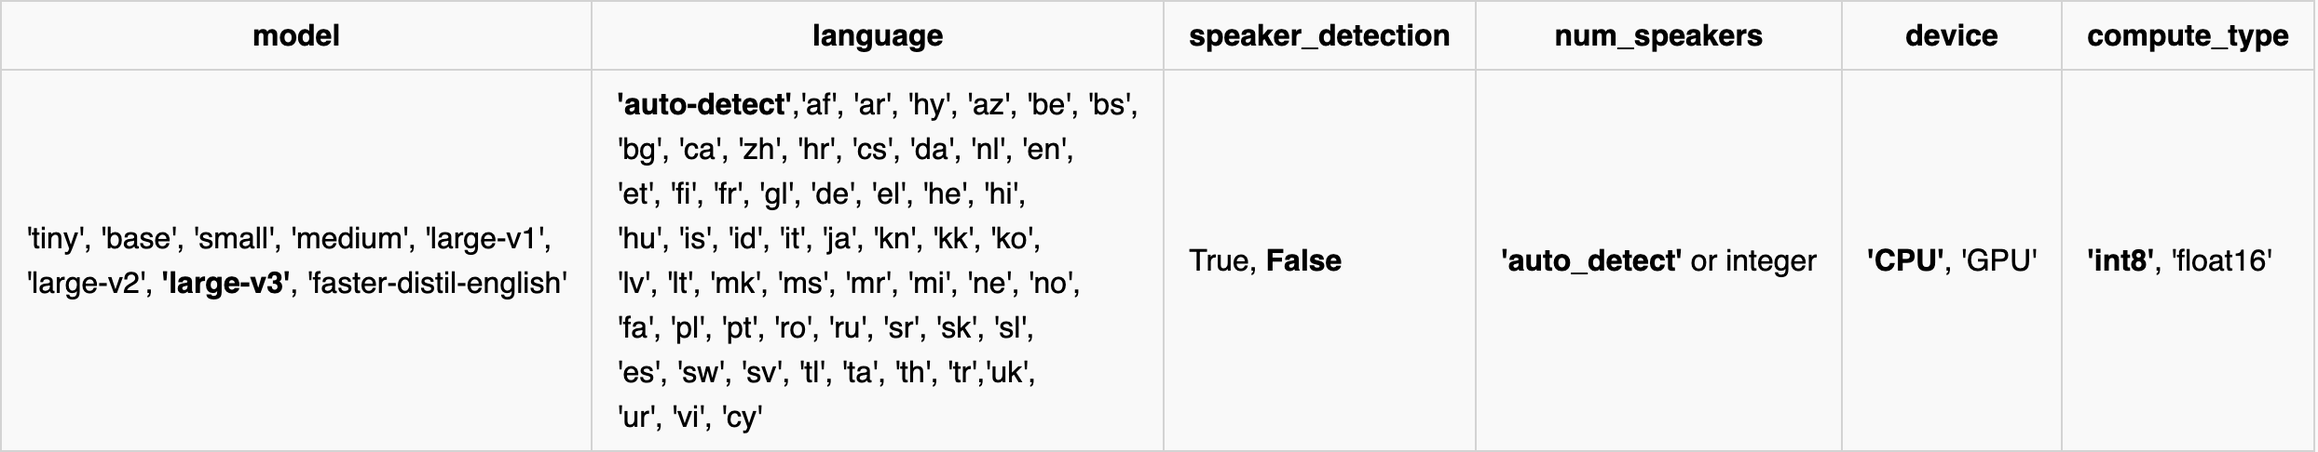
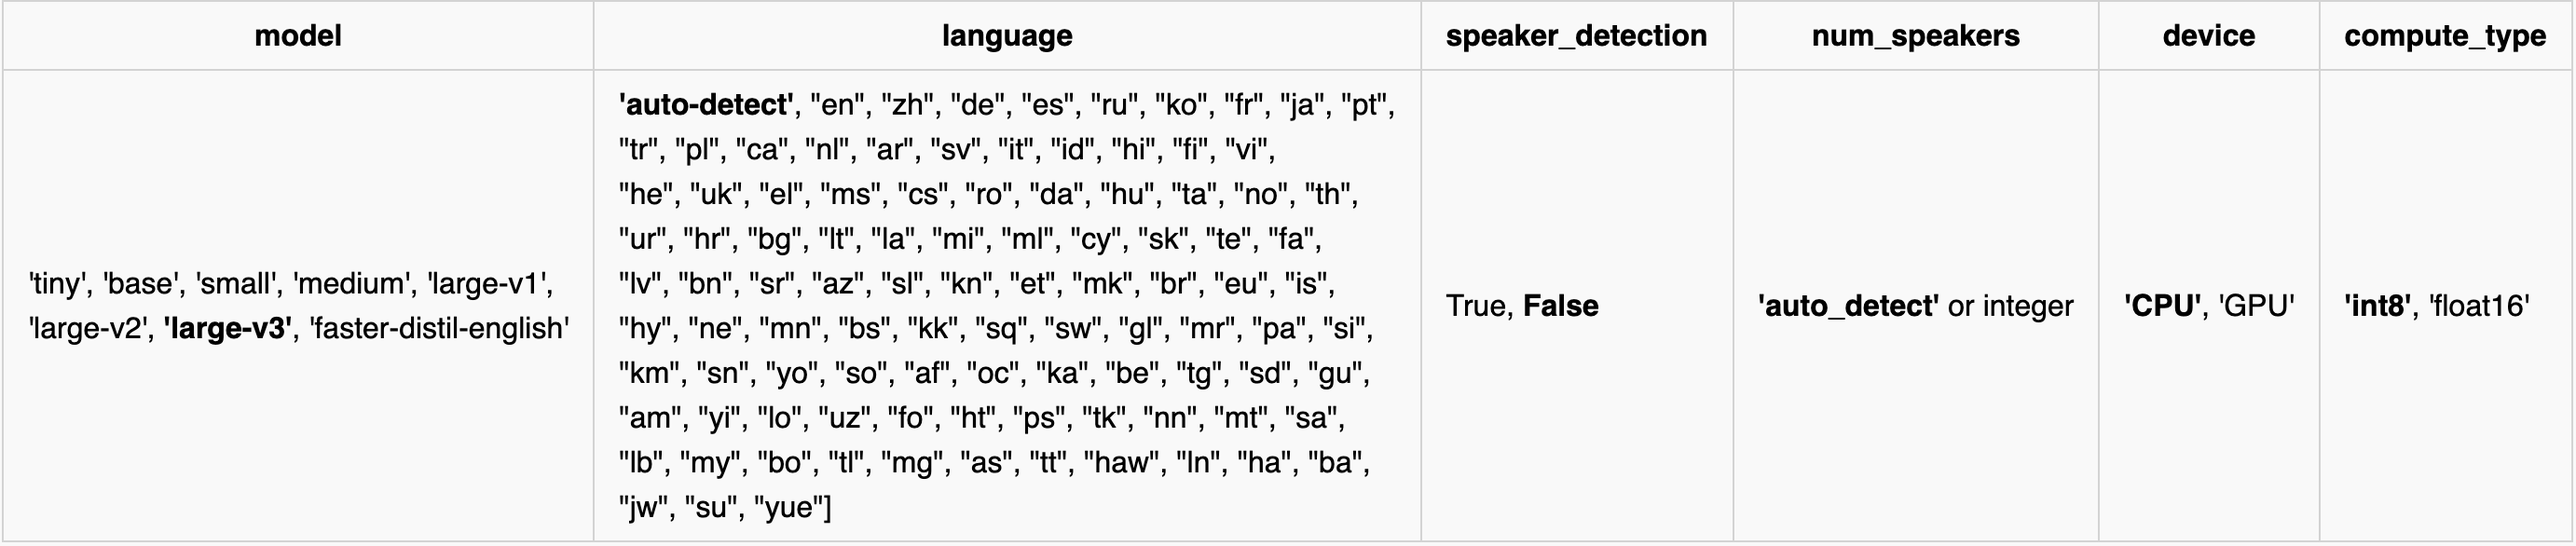
adding supported languages to readme

diff --git a/README.md b/README.md
@@ -98,7 +98,7 @@ aTrain processes the provided speech recordings completely offline on your own d
 \
 **Multi-language support 🌍**
 \
-aTrain can process speech recordings in any of the following 57 languages: Afrikaans, Arabic, Armenian, Azerbaijani, Belarusian, Bosnian, Bulgarian, Catalan, Chinese, Croatian, Czech, Danish, Dutch, English, Estonian, Finnish, French, Galician, German, Greek, Hebrew, Hindi, Hungarian, Icelandic, Indonesian, Italian, Japanese, Kannada, Kazakh, Korean, Latvian, Lithuanian, Macedonian, Malay, Marathi, Maori, Nepali, Norwegian, Persian, Polish, Portuguese, Romanian, Russian, Serbian, Slovak, Slovenian, Spanish, Swahili, Swedish, Tagalog, Tamil, Thai, Turkish, Ukrainian, Urdu, Vietnamese, and Welsh.
+aTrain can process speech recordings in any of the following 99 languages: Afrikaans, Albanian, Amharic, Arabic, Armenian, Assamese, Azerbaijani, Basque, Bashkir, Belarusian, Bengali, Bosnian, Breton, Bulgarian, Cantonese, Catalan, Croatian, Czech, Danish, Dutch, English, Estonian, Faroese, Finnish, French, Galician, Georgian, German, Greek, Gujarati, Haitian Creole, Hausa, Hawaiian, Hebrew, Hindi, Hungarian, Icelandic, Igbo, Indonesian, Irish, Italian, Japanese, Javanese, Kannada, Kazakh, Khmer, Kinyarwanda, Korean, Kurdish, Kyrgyz, Lao, Latin, Latvian, Lingala, Lithuanian, Lao, Luxembourgish, Macedonian, Malagasy, Malay, Malayalam, Maltese, Maori, Marathi, Mongolian, Myanmar, Nepali, Norwegian, Nynorsk, Occitan, Oriya, Oromo, Pashto, Persian, Polish, Portuguese, Punjabi, Quechua, Romanian, Russian, Sanskrit, Scots Gaelic, Serbian, Sindhi, Sinhala, Slovak, Slovenian, Somali, Sotho, Spanish, Sundanese, Swahili, Swedish, Tajik, Tamil, Tatar, Telugu, Thai, Tibetan, Tigrinya, Tongan, Turkish, Turkmen, Ukrainian, Urdu, Uyghur, Uzbek, Vietnamese, Welsh, Xhosa, Yiddish, Yoruba, Zulu.
 \
 \
 **MAXQDA and ATLAS.ti compatible output 📄**
